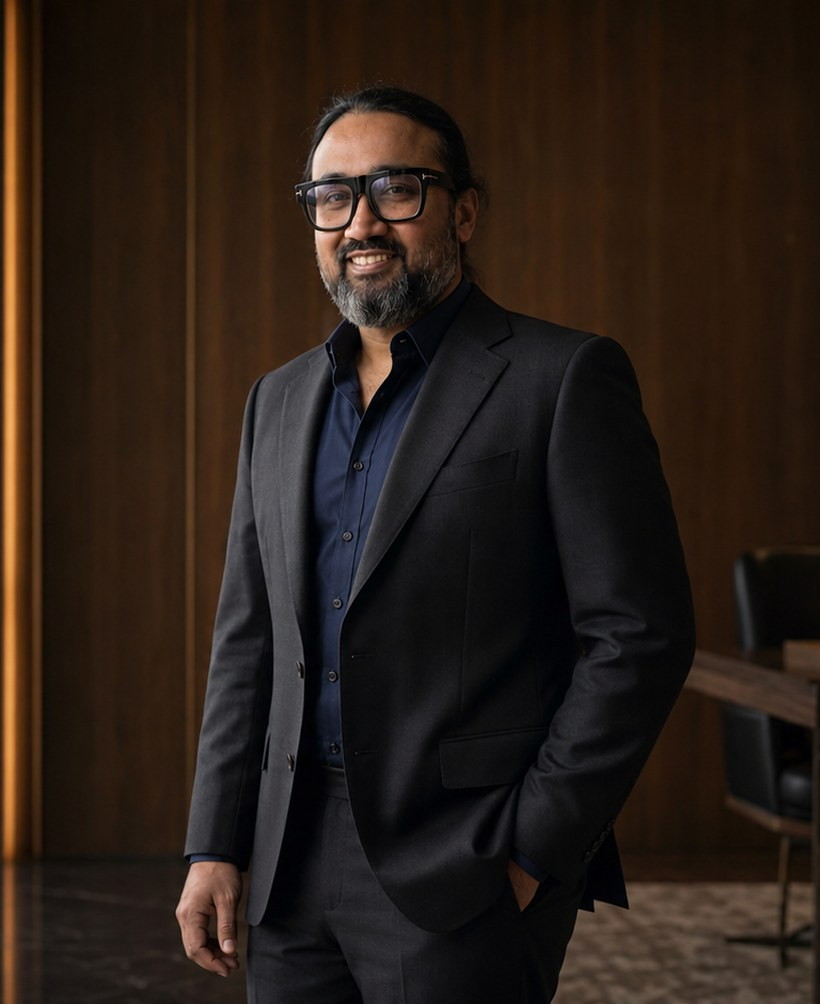
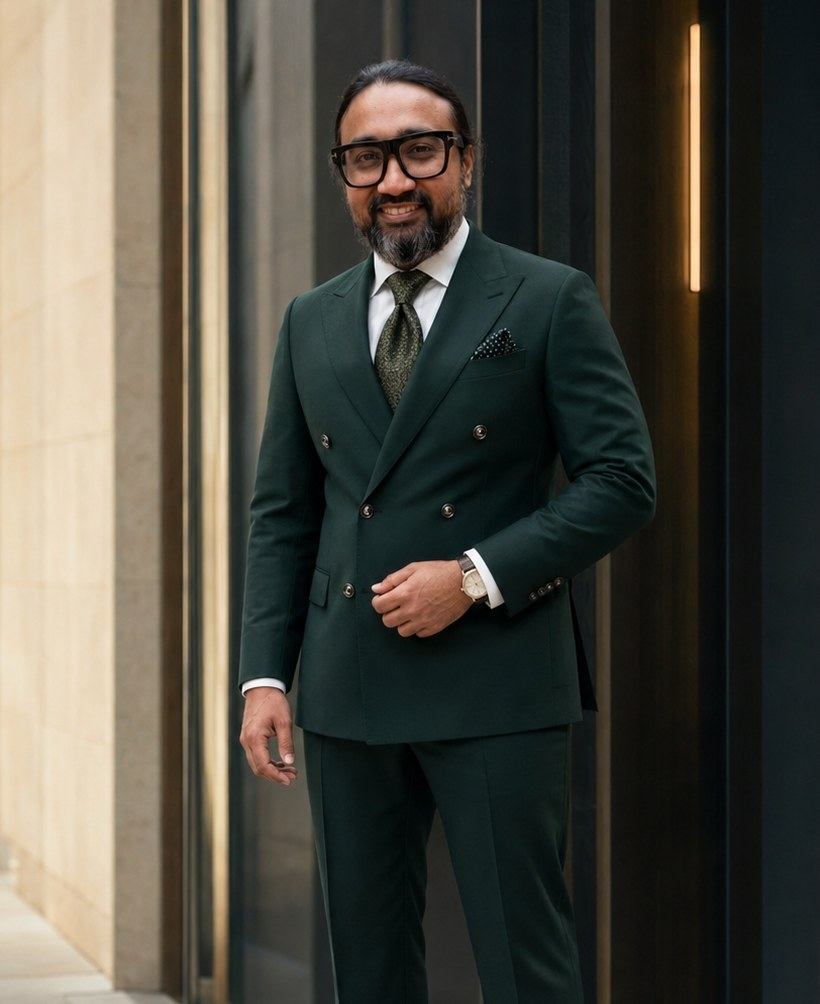
Hero portrait: the green double-breasted suit (knee-up crop), all lenses
Swap the inner hero (and schema image) to the signature green-suit portrait,
cropped knee-up so the face keeps presence at render size. Dark-office
version preserved in _local_archive/. Cache-busted to v=3.

Claude-Session: https://claude.ai/code/session_01PHiPxyXvEgajkNqsmLpdvA

diff --git a/index.html b/index.html
@@ -344,7 +344,7 @@
  <div class="hero-photo" data-reveal style="justify-self:center;position:relative;">
  <div style="position:absolute;inset:-12% -10%;background:radial-gradient(circle at 50% 40%,var(--accent-soft),transparent 70%);filter:blur(8px);z-index:0;"></div>
  <div style="position:relative;z-index:1;width:clamp(230px,30vw,340px);border-radius:14px;overflow:hidden;border:1px solid var(--border-strong);box-shadow:var(--shadow-lg);background:var(--surface-base);">
- <img width="820" height="1004" src="assets/headshot-hero.jpg?v=2" alt="Md Shafaat Ali Choyon: Growth, Marketing &amp; Public Health Strategist" style="display:block;width:100%;height:auto;object-fit:cover;filter:saturate(.9) contrast(1.02);" />
+ <img width="820" height="1004" src="assets/headshot-hero.jpg?v=3" alt="Md Shafaat Ali Choyon: Growth, Marketing &amp; Public Health Strategist" style="display:block;width:100%;height:auto;object-fit:cover;filter:saturate(.9) contrast(1.02);" />
  <div aria-hidden="true" style="position:absolute;inset:0;pointer-events:none;background:radial-gradient(128% 108% at 50% 36%,transparent 44%,var(--surface-base) 95%);"></div>
  </div>
  <div style="position:absolute;z-index:2;bottom:-14px;left:-14px;background:var(--surface-raised);border:1px solid var(--border-hairline);color:var(--text-muted);font-family:var(--mono);font-size:11px;font-weight:500;letter-spacing:.04em;padding:9px 13px;border-radius:8px;box-shadow:var(--shadow-card);">EST. 2009 → NOW</div>
